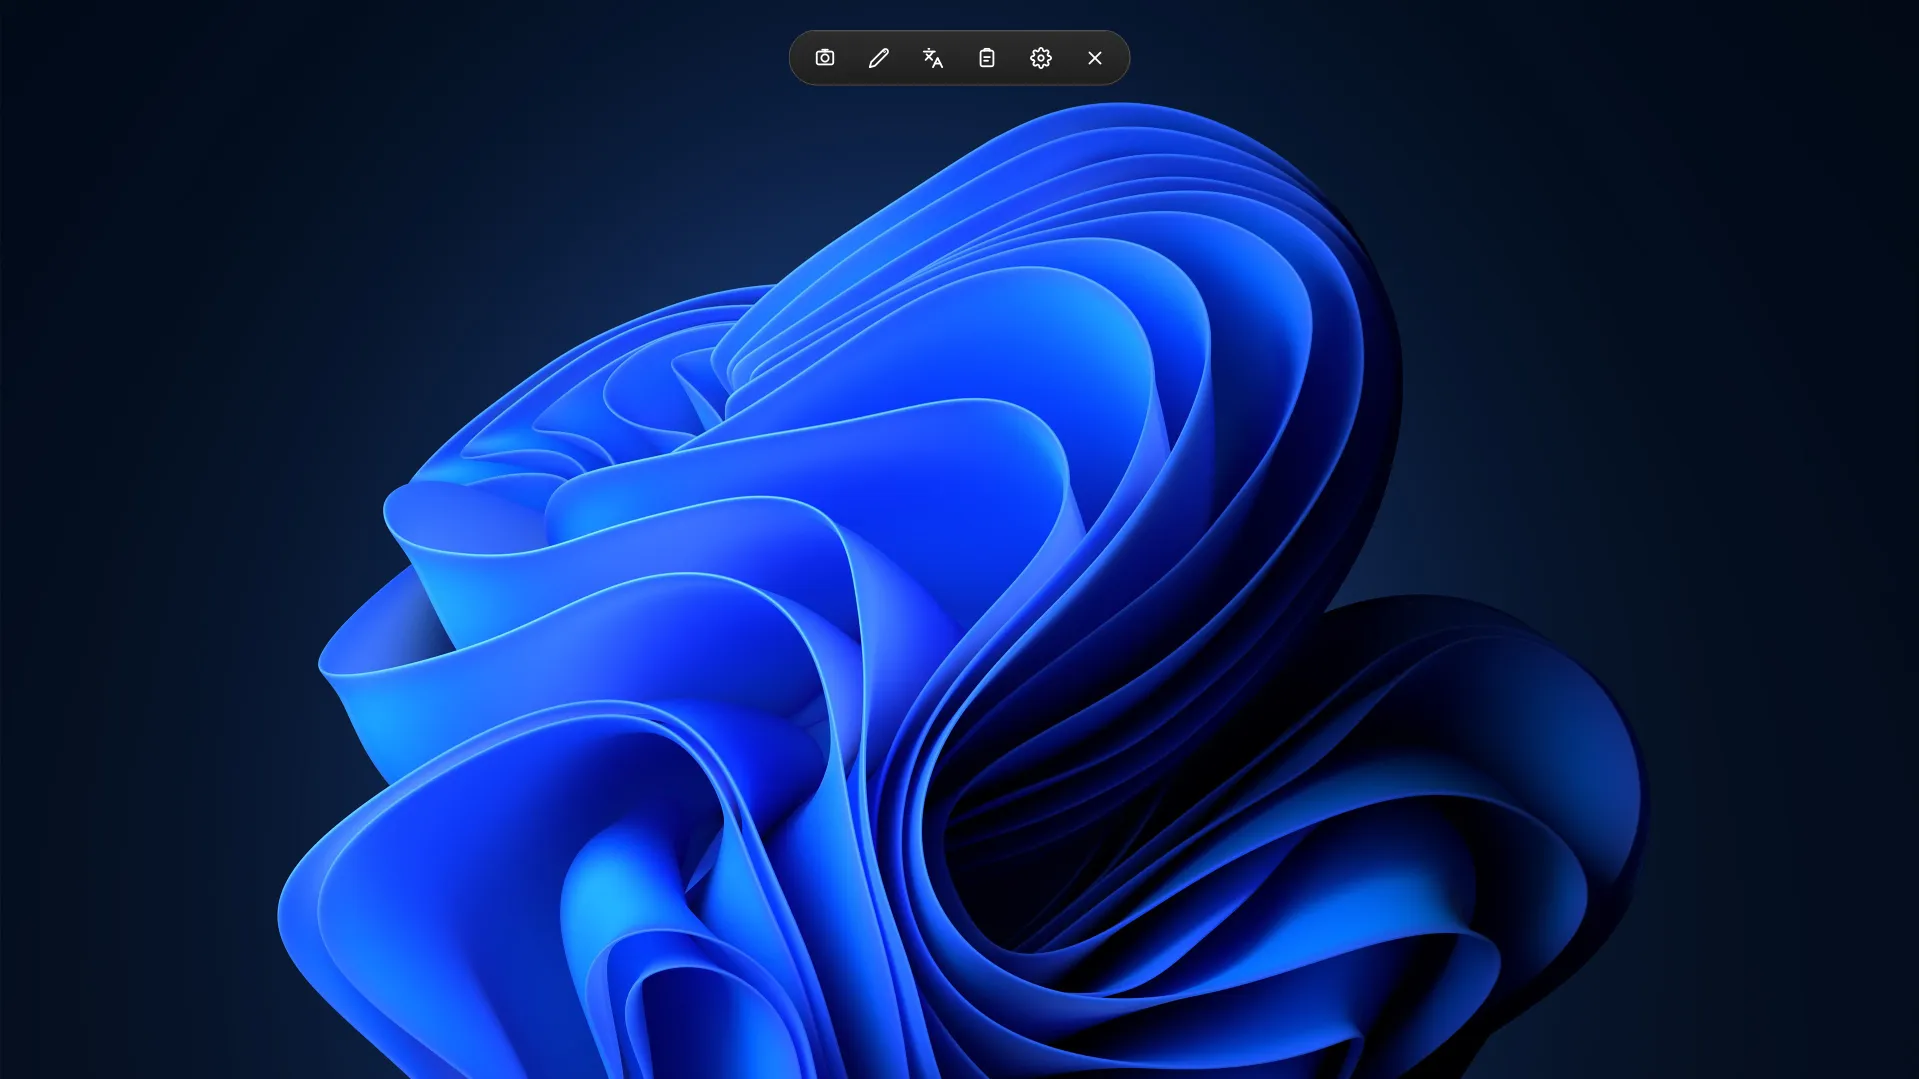
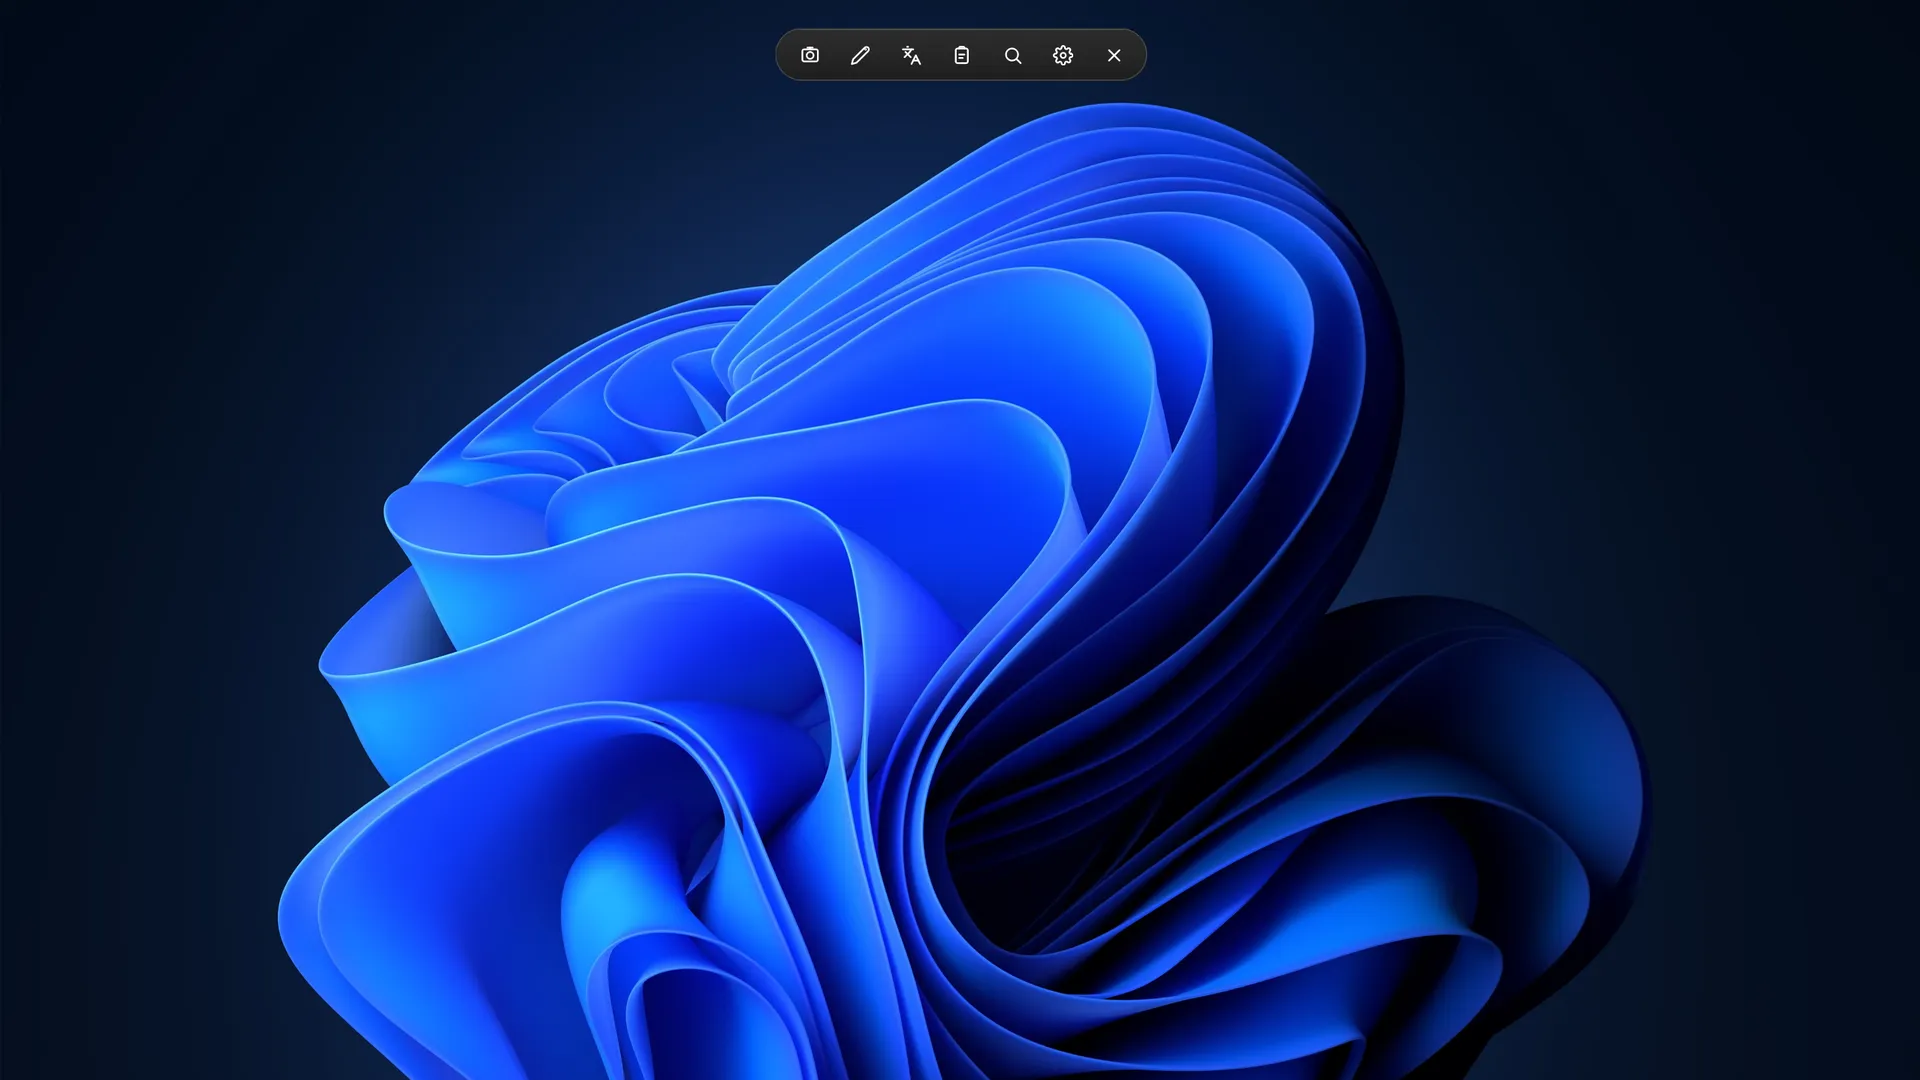
R2.4.8.3

diff --git a/assets/js/i18n.js b/assets/js/i18n.js
@@ -76,7 +76,7 @@ window.I18N = {
         'project.lansyncbox.subtitle': '局域网文件实时同步工具，实现多人隔空文件共享',
         'project.syncgui.subtitle': '双端文件同步工具，支持智能差异检测',
         'project.deskhelper.subtitle': '桌面办公小助手，集成多种实用工具',
-        'project.caprise.subtitle': '基于 PySide6 的 Windows 桌面快捷工具栏，全局热键唤起，截屏、翻译、标注、局域网剪切板一触即达',
+        'project.caprise.subtitle': '基于 PySide6 的 Windows 桌面快捷工具栏，全局热键唤起，截屏、翻译、标注、局域网剪切板、全局搜索一触即达',
         'project.tokenpeek.subtitle': 'AI额度实时监控工具，托盘常驻提醒',
         'project.iconformsix.subtitle': 'MSIX应用图标集批量生成工具',
         'project.nexusterminal.subtitle': '轻量级终端辅助工具，隧道、服务器、端口管理、多线程下载',
@@ -124,7 +124,7 @@ window.I18N = {
         // CapRise
         'caprise.gallery.caption': 'CapRise 悬浮胶囊面板',
         'caprise.feature.capsule.title': '悬浮胶囊',
-        'caprise.feature.capsule.desc': '简洁的胶囊形悬浮面板，跟随系统主题自适应，SVG 矢量图标悬停变色，平滑弹出/收起动画',
+        'caprise.feature.capsule.desc': '简洁的胶囊形悬浮面板，跟随系统主题自适应，SVG 矢量图标悬停变色，平滑弹出/收起动画；支持拖拽排序工具、眼睛图标一键显示/隐藏',
         'caprise.feature.screenshot.title': '截屏工具',
         'caprise.feature.screenshot.desc': '从任意方向框选截屏区域，实时预览、确认后保存，支持复制到剪贴板',
         'caprise.feature.translate.title': '区域翻译',
@@ -134,11 +134,13 @@ window.I18N = {
         'caprise.feature.clipboard.title': '局域网剪切板',
         'caprise.feature.clipboard.desc': '房间号配对自动组网，UDP + TCP 双通道发现、星型中继，历史记录持久化到 SQLite',
         'caprise.feature.hotkey.title': '全局快捷键',
-        'caprise.feature.hotkey.desc': 'Ctrl + · 一键唤出/隐藏悬浮面板，Win32 全局快捷键注册，托盘图标常驻双击唤起',
+        'caprise.feature.hotkey.desc': 'Ctrl + ` 一键唤出/隐藏悬浮面板；截屏、标注、翻译、剪切板、搜索等 7 个功能均可自定义全局快捷键，支持一键重置恢复默认；Win32 全局注册，托盘图标常驻双击唤起',
+        'caprise.feature.search.title': '全局搜索',
+        'caprise.feature.search.desc': '快捷键唤起搜索卡片，软件与文件（Everything 引擎）秒级检索，内置快捷计算',
         'caprise.feature.smarthide.title': '智能隐藏',
         'caprise.feature.smarthide.desc': '点击空白区域或按 ESC 自动收起，对自家扩展窗口（家族窗口）友好，不会误关闭',
         'caprise.feature.settings.title': '设置面板',
-        'caprise.feature.settings.desc': '语言切换、翻译目标语言、快捷键查看、开机自启、关于页与检查更新，状态持久化'
+        'caprise.feature.settings.desc': '语言切换、翻译目标语言、快捷键自定义与一键重置、开机自启、关于页与检查更新；工具排序列表点击无选中/焦点高亮，状态持久化'
     },
 
     'en': {
@@ -217,7 +219,7 @@ window.I18N = {
         'project.lansyncbox.subtitle': 'Real-time LAN file sync for multi-user file sharing',
         'project.syncgui.subtitle': 'Dual-end file sync with smart diff detection',
         'project.deskhelper.subtitle': 'Desktop assistant with integrated utilities',
-        'project.caprise.subtitle': 'A PySide6-based Windows desktop quick toolbar. Global hotkey invoke: screenshot, translate, annotate, LAN clipboard at your fingertips',
+        'project.caprise.subtitle': 'A PySide6-powered Windows desktop quick toolbar summoned by a global hotkey — screenshot, translate, annotate, LAN clipboard and global search at your fingertips',
         'project.tokenpeek.subtitle': 'AI quota monitor with system tray integration',
         'project.iconformsix.subtitle': 'Batch MSIX app icon set generator',
         'project.nexusterminal.subtitle': 'Lightweight terminal toolkit: tunneling, server, port management, download',
@@ -411,7 +413,7 @@ window.I18N = {
         // CapRise
         'caprise.gallery.caption': 'CapRise Quick Capsule Panel',
         'caprise.feature.capsule.title': 'Quick Capsule',
-        'caprise.feature.capsule.desc': 'Compact capsule floating panel, adapts to system theme, SVG vector icons change color on hover, smooth expand/collapse animations',
+        'caprise.feature.capsule.desc': 'Compact capsule floating panel, adapts to system theme, SVG vector icons change color on hover, smooth expand/collapse animations; drag to reorder tools and use the eye icon to show/hide each one',
         'caprise.feature.screenshot.title': 'Screenshot',
         'caprise.feature.screenshot.desc': 'Select regions from any direction, real-time preview, save after confirmation, copy to clipboard',
         'caprise.feature.translate.title': 'Region Translate',
@@ -421,11 +423,13 @@ window.I18N = {
         'caprise.feature.clipboard.title': 'LAN Clipboard',
         'caprise.feature.clipboard.desc': 'Room-number pairing auto mesh networking, UDP + TCP dual-channel discovery, star relay, history persisted to SQLite',
         'caprise.feature.hotkey.title': 'Global Hotkey',
-        'caprise.feature.hotkey.desc': 'Ctrl + ` toggles the floating panel, Win32 global hotkey registration, tray icon always-on with double-click invoke',
+        'caprise.feature.hotkey.desc': 'Ctrl + ` toggles the floating panel; global hotkeys for 7 features (screenshot, annotation, translate, clipboard, search, ...) are fully customizable with one-click reset to defaults; Win32 global registration, always-on tray icon with double-click invoke',
+        'caprise.feature.search.title': 'Global Search',
+        'caprise.feature.search.desc': 'Summon a search card by hotkey; instant lookup of apps and files (Everything engine) with built-in quick math',
         'caprise.feature.smarthide.title': 'Smart Hide',
         'caprise.feature.smarthide.desc': 'Click blank area or press ESC to auto-collapse, family-window aware so own extension windows are never mis-closed',
         'caprise.feature.settings.title': 'Settings Panel',
-        'caprise.feature.settings.desc': 'Language switch, translation target language, hotkey view, autostart, about page and update check, persistent state',
+        'caprise.feature.settings.desc': 'Language switch, translation target language, hotkey customization with one-click reset, autostart, about page and update check; the tool order list shows no selection/focus highlight on click, persistent state',
 
         // Tools section
         'tools.title': 'Tools',

diff --git a/en/index.html b/en/index.html
@@ -1186,7 +1186,7 @@
                     </div>
                     <div class="project-info">
                         <h1 class="project-title">CapRise</h1>
-                        <p class="project-subtitle" data-i18n="project.caprise.subtitle">基于 PySide6 的 Windows 桌面快捷工具栏，全局热键唤起，截屏、翻译、标注、局域网剪切板一触即达</p>
+                        <p class="project-subtitle" data-i18n="project.caprise.subtitle">基于 PySide6 的 Windows 桌面快捷工具栏，全局热键唤起，截屏、翻译、标注、局域网剪切板、全局搜索一触即达</p>
                         <div class="project-links">
                             <a href="https://github.com/LisseldeE/CapRise" target="_blank" class="project-link">
                                 <svg viewBox="0 0 24 24" width="16" height="16" fill="currentColor"><path d="M12 0C5.37 0 0 5.37 0 12c0 5.31 3.435 9.795 8.205 11.385.6.105.825-.255.825-.57 0-.285-.015-1.23-.015-2.235-3.015.555-3.795-.735-4.035-1.41-.135-.345-.72-1.41-1.23-1.695-.42-.225-1.02-.78-.015-.795.945-.015 1.62.87 1.845 1.23 1.065 1.815 2.79 1.305 3.495.99.105-.78.42-1.305.765-1.605-2.67-.3-5.46-1.35-5.46-5.985 0-1.32.465-2.415 1.23-3.255-.12-.3-.54-1.545.12-3.18 0 0 1.005-.315 3.3 1.23.96-.27 1.98-.405 3-.405s2.04.135 3 .405c2.295-1.56 3.3-1.23 3.3-1.23.66 1.635.24 2.88.12 3.18.765.84 1.23 1.935 1.23 3.255 0 4.65-2.805 5.685-5.46 5.985.435.375.81 1.095.81 2.22 0 1.605-.015 2.895-.015 3.3 0 .315.225.69.825.57A12.02 12.02 0 0024 12c0-6.63-5.37-12-12-12z"/></svg>
@@ -1245,7 +1245,7 @@
                 <div class="features-grid">
                     <div class="feature-card">
                         <div class="feature-title" data-i18n="caprise.feature.capsule.title">悬浮胶囊</div>
-                        <div class="feature-desc" data-i18n="caprise.feature.capsule.desc">简洁的胶囊形悬浮面板，跟随系统主题自适应，SVG 矢量图标悬停变色，平滑弹出/收起动画</div>
+                        <div class="feature-desc" data-i18n="caprise.feature.capsule.desc">简洁的胶囊形悬浮面板，跟随系统主题自适应，SVG 矢量图标悬停变色，平滑弹出/收起动画；支持拖拽排序工具、眼睛图标一键显示/隐藏</div>
                     </div>
                     <div class="feature-card">
                         <div class="feature-title" data-i18n="caprise.feature.screenshot.title">截屏工具</div>
@@ -1265,7 +1265,11 @@
                     </div>
                     <div class="feature-card">
                         <div class="feature-title" data-i18n="caprise.feature.hotkey.title">全局快捷键</div>
-                        <div class="feature-desc" data-i18n="caprise.feature.hotkey.desc">Ctrl + · 一键唤出/隐藏悬浮面板，Win32 全局快捷键注册，托盘图标常驻双击唤起</div>
+                        <div class="feature-desc" data-i18n="caprise.feature.hotkey.desc">Ctrl + ` 一键唤出/隐藏悬浮面板；截屏、标注、翻译、剪切板、搜索等 7 个功能均可自定义全局快捷键，支持一键重置恢复默认；Win32 全局注册，托盘图标常驻双击唤起</div>
+                    </div>
+                    <div class="feature-card">
+                        <div class="feature-title" data-i18n="caprise.feature.search.title">全局搜索</div>
+                        <div class="feature-desc" data-i18n="caprise.feature.search.desc">快捷键唤起搜索卡片，软件与文件（Everything 引擎）秒级检索，内置快捷计算</div>
                     </div>
                     <div class="feature-card">
                         <div class="feature-title" data-i18n="caprise.feature.smarthide.title">智能隐藏</div>
@@ -1273,7 +1277,7 @@
                     </div>
                     <div class="feature-card">
                         <div class="feature-title" data-i18n="caprise.feature.settings.title">设置面板</div>
-                        <div class="feature-desc" data-i18n="caprise.feature.settings.desc">语言切换、翻译目标语言、快捷键查看、开机自启、关于页与检查更新，状态持久化</div>
+                        <div class="feature-desc" data-i18n="caprise.feature.settings.desc">语言切换、翻译目标语言、快捷键自定义与一键重置、开机自启、关于页与检查更新；工具排序列表点击无选中/焦点高亮，状态持久化</div>
                     </div>
                 </div>
             </div>
@@ -1287,6 +1291,7 @@
                     <span class="tech-tag">WinRT</span>
                     <span class="tech-tag">Socket (UDP+TCP)</span>
                     <span class="tech-tag">SQLite</span>
+                    <span class="tech-tag">Everything</span>
                 </div>
             </div>
 

diff --git a/zh-cn/index.html b/zh-cn/index.html
@@ -1186,7 +1186,7 @@
                     </div>
                     <div class="project-info">
                         <h1 class="project-title">CapRise</h1>
-                        <p class="project-subtitle" data-i18n="project.caprise.subtitle">基于 PySide6 的 Windows 桌面快捷工具栏，全局热键唤起，截屏、翻译、标注、局域网剪切板一触即达</p>
+                        <p class="project-subtitle" data-i18n="project.caprise.subtitle">基于 PySide6 的 Windows 桌面快捷工具栏，全局热键唤起，截屏、翻译、标注、局域网剪切板、全局搜索一触即达</p>
                         <div class="project-links">
                             <a href="https://github.com/LisseldeE/CapRise" target="_blank" class="project-link">
                                 <svg viewBox="0 0 24 24" width="16" height="16" fill="currentColor"><path d="M12 0C5.37 0 0 5.37 0 12c0 5.31 3.435 9.795 8.205 11.385.6.105.825-.255.825-.57 0-.285-.015-1.23-.015-2.235-3.015.555-3.795-.735-4.035-1.41-.135-.345-.72-1.41-1.23-1.695-.42-.225-1.02-.78-.015-.795.945-.015 1.62.87 1.845 1.23 1.065 1.815 2.79 1.305 3.495.99.105-.78.42-1.305.765-1.605-2.67-.3-5.46-1.35-5.46-5.985 0-1.32.465-2.415 1.23-3.255-.12-.3-.54-1.545.12-3.18 0 0 1.005-.315 3.3 1.23.96-.27 1.98-.405 3-.405s2.04.135 3 .405c2.295-1.56 3.3-1.23 3.3-1.23.66 1.635.24 2.88.12 3.18.765.84 1.23 1.935 1.23 3.255 0 4.65-2.805 5.685-5.46 5.985.435.375.81 1.095.81 2.22 0 1.605-.015 2.895-.015 3.3 0 .315.225.69.825.57A12.02 12.02 0 0024 12c0-6.63-5.37-12-12-12z"/></svg>
@@ -1245,7 +1245,7 @@
                 <div class="features-grid">
                     <div class="feature-card">
                         <div class="feature-title" data-i18n="caprise.feature.capsule.title">悬浮胶囊</div>
-                        <div class="feature-desc" data-i18n="caprise.feature.capsule.desc">简洁的胶囊形悬浮面板，跟随系统主题自适应，SVG 矢量图标悬停变色，平滑弹出/收起动画</div>
+                        <div class="feature-desc" data-i18n="caprise.feature.capsule.desc">简洁的胶囊形悬浮面板，跟随系统主题自适应，SVG 矢量图标悬停变色，平滑弹出/收起动画；支持拖拽排序工具、眼睛图标一键显示/隐藏</div>
                     </div>
                     <div class="feature-card">
                         <div class="feature-title" data-i18n="caprise.feature.screenshot.title">截屏工具</div>
@@ -1265,7 +1265,11 @@
                     </div>
                     <div class="feature-card">
                         <div class="feature-title" data-i18n="caprise.feature.hotkey.title">全局快捷键</div>
-                        <div class="feature-desc" data-i18n="caprise.feature.hotkey.desc">Ctrl + · 一键唤出/隐藏悬浮面板，Win32 全局快捷键注册，托盘图标常驻双击唤起</div>
+                        <div class="feature-desc" data-i18n="caprise.feature.hotkey.desc">Ctrl + ` 一键唤出/隐藏悬浮面板；截屏、标注、翻译、剪切板、搜索等 7 个功能均可自定义全局快捷键，支持一键重置恢复默认；Win32 全局注册，托盘图标常驻双击唤起</div>
+                    </div>
+                    <div class="feature-card">
+                        <div class="feature-title" data-i18n="caprise.feature.search.title">全局搜索</div>
+                        <div class="feature-desc" data-i18n="caprise.feature.search.desc">快捷键唤起搜索卡片，软件与文件（Everything 引擎）秒级检索，内置快捷计算</div>
                     </div>
                     <div class="feature-card">
                         <div class="feature-title" data-i18n="caprise.feature.smarthide.title">智能隐藏</div>
@@ -1273,7 +1277,7 @@
                     </div>
                     <div class="feature-card">
                         <div class="feature-title" data-i18n="caprise.feature.settings.title">设置面板</div>
-                        <div class="feature-desc" data-i18n="caprise.feature.settings.desc">语言切换、翻译目标语言、快捷键查看、开机自启、关于页与检查更新，状态持久化</div>
+                        <div class="feature-desc" data-i18n="caprise.feature.settings.desc">语言切换、翻译目标语言、快捷键自定义与一键重置、开机自启、关于页与检查更新；工具排序列表点击无选中/焦点高亮，状态持久化</div>
                     </div>
                 </div>
             </div>
@@ -1287,6 +1291,7 @@
                     <span class="tech-tag">WinRT</span>
                     <span class="tech-tag">Socket (UDP+TCP)</span>
                     <span class="tech-tag">SQLite</span>
+                    <span class="tech-tag">Everything</span>
                 </div>
             </div>
 
